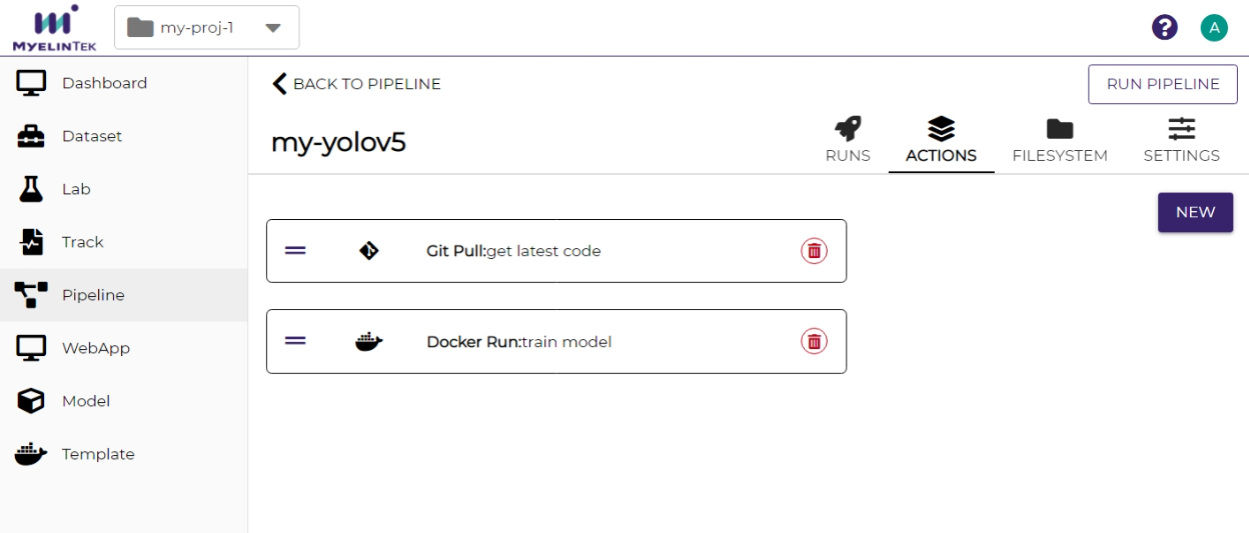
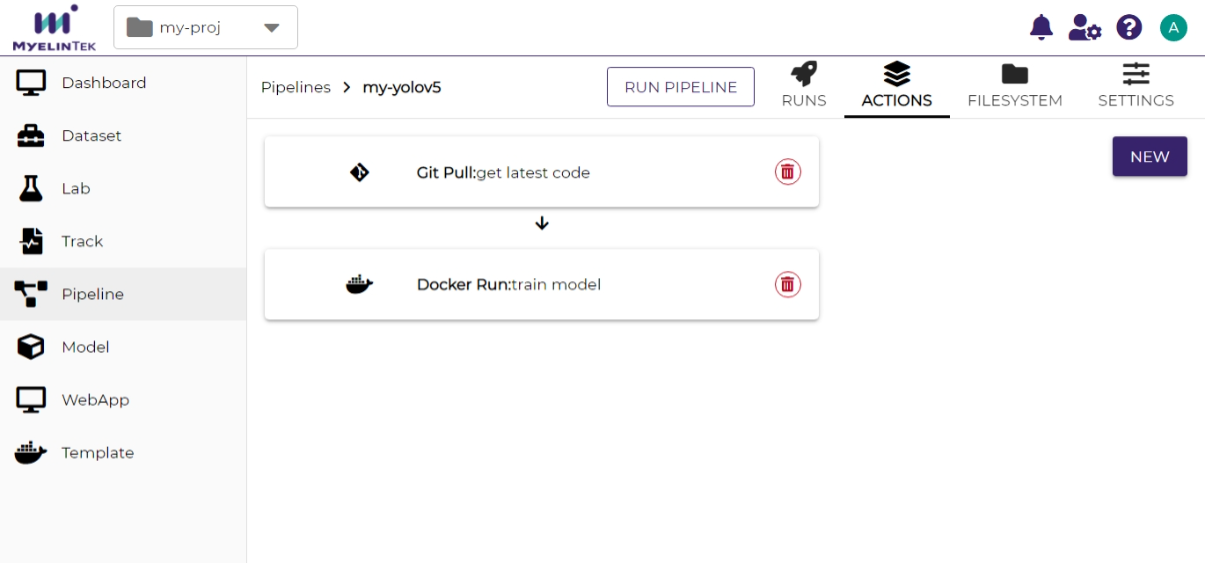
Update the mlops page

diff --git a/user/mlops.rst b/user/mlops.rst
@@ -48,16 +48,21 @@ We will start a pipeline to train and run a YOLOv5 model.
 Define the Pipeline Procedure
 =============================
 
-We will define an MLOps pipeline consisting of two actions: (1) to download the latest YOLOv5 code, and (2) to train the YOLOv5 model.
+We will define an MLOps pipeline consisting of two actions:
+\(1) to download the latest YOLOv5 code, and (2) to train the YOLOv5 model.
 
-#) Click on the *Add Action* button.
+#) Go to the actions page by clicking on the *Action Page* button.
 
-    .. image:: /_static/imgs/user/get_started/btn_add_action.png
-        
+    .. image:: /_static/imgs/common/btn_action_page.png
+
+#) Click on the *NEW* button.
+
+    .. image:: /_static/imgs/common/btn_new.png
+
 #) In the new action dialog, click on the *Git Pull* action.
 
     .. image:: /_static/imgs/user/get_started/add_pipeline_action_1_1.png
-        :width: 600
+        :width: 480
 
 #) In the action settings dialog, input the following field in the *Git* section:
 
@@ -75,7 +80,8 @@ We will define an MLOps pipeline consisting of two actions: (1) to download the 
     .. image:: /_static/imgs/user/get_started/add_pipeline_action_1_3.png
         :width: 480
 
-#) Define the model-training action. Click on the *New* button, select the *Docker Run* action template, and fill in the following fields:
+#) Define the model-training action.
+   Click on the *NEW* button, select the *Docker Run* action template, and fill in the following fields:
 
     * In the *command* section:
 
@@ -121,7 +127,7 @@ Run the Pipeline
 
 To run the Pipeline:
 
-#) Click on the *RUN PIPELINE* button in the top-right corner.
+#) Click on the *RUN PIPELINE* button on the top.
 
     .. image:: /_static/imgs/common/btn_run_pipeline.png
 
@@ -130,7 +136,7 @@ To run the Pipeline:
 
     .. image:: /_static/imgs/user/get_started/run_pipeline_1_1.png
         :width: 300
-    
+
     .. note::
         A pipeline run may be delayed for a while
         if the system is busy on processing other labs or pipeline runs.
@@ -154,7 +160,7 @@ Press :kbd:`Esc` to exit the full screen mode.
 The model validation results could be found in the last part of the outputs, something like::
 
     Validating /working/train/exp/weights/best.pt...
-    Fusing layers... 
+    Fusing layers...
     Model Summary: 213 layers, 7225885 parameters, 0 gradients, 16.5 GFLOPs
 
                 Class     Images     Labels          P          R     mAP@.5 mAP@.5:.95:   0%|          | 0/4 [00:00<?, ?it/s]
@@ -182,9 +188,10 @@ Visualize the YOLOv5 Results
 
 Increase the training epochs:
 
-#) Back to the run list by clicking on the link in the top-left corner.
+#) Back to the run list by clicking on the link on the top.
 
-    .. image:: /_static/imgs/common/link_back_to_run_list.png
+    .. image:: /_static/imgs/user/get_started/goto_runs.png
+        :width: 600
 
 #) Go to the action list by clicking on the *ACTIONS* button.
 
@@ -231,7 +238,7 @@ Let's see our training results:
 
     .. image:: /_static/imgs/user/get_started/goto_track.png
         :width: 600
-    
+
     .. note::
         A track is named by the initial part of the project name, followed by the run number.
 
